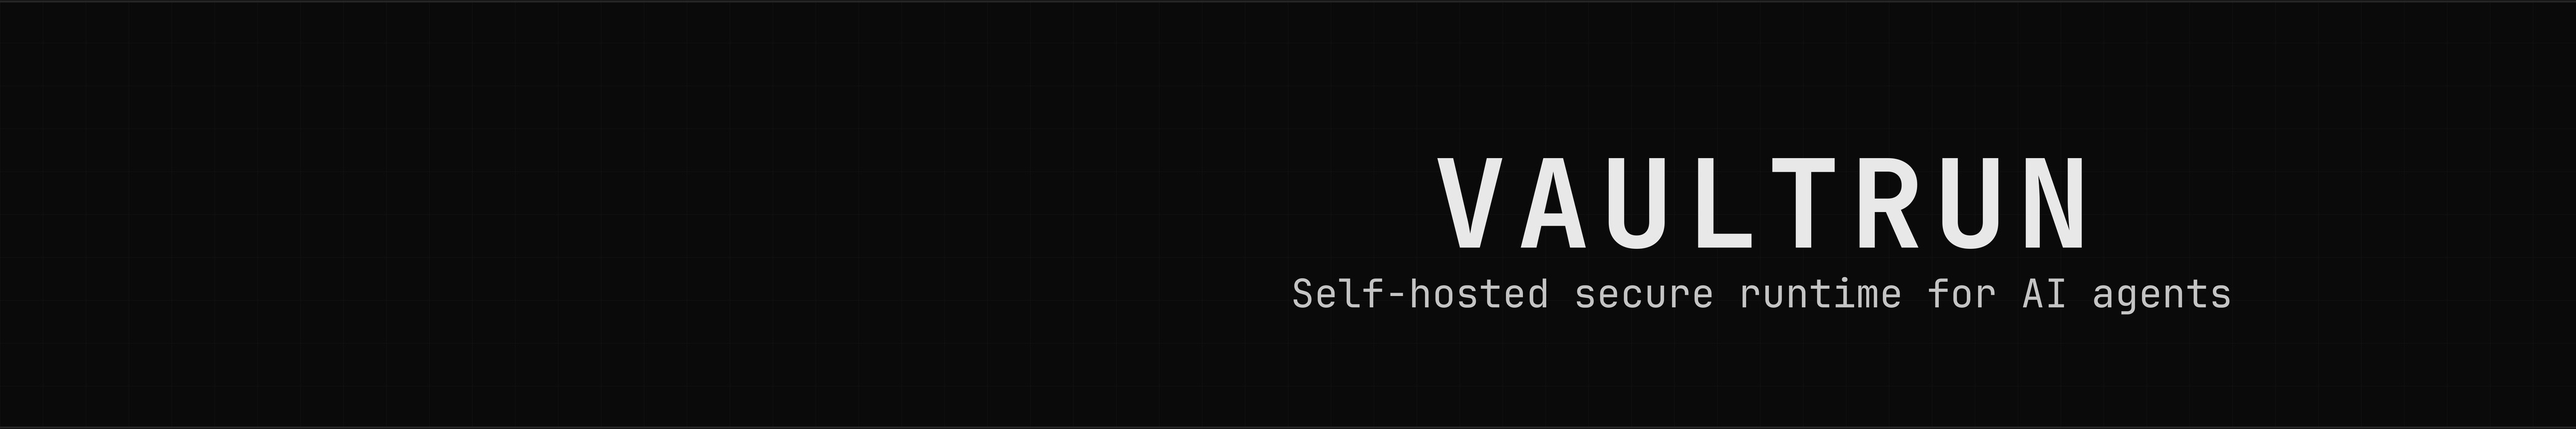
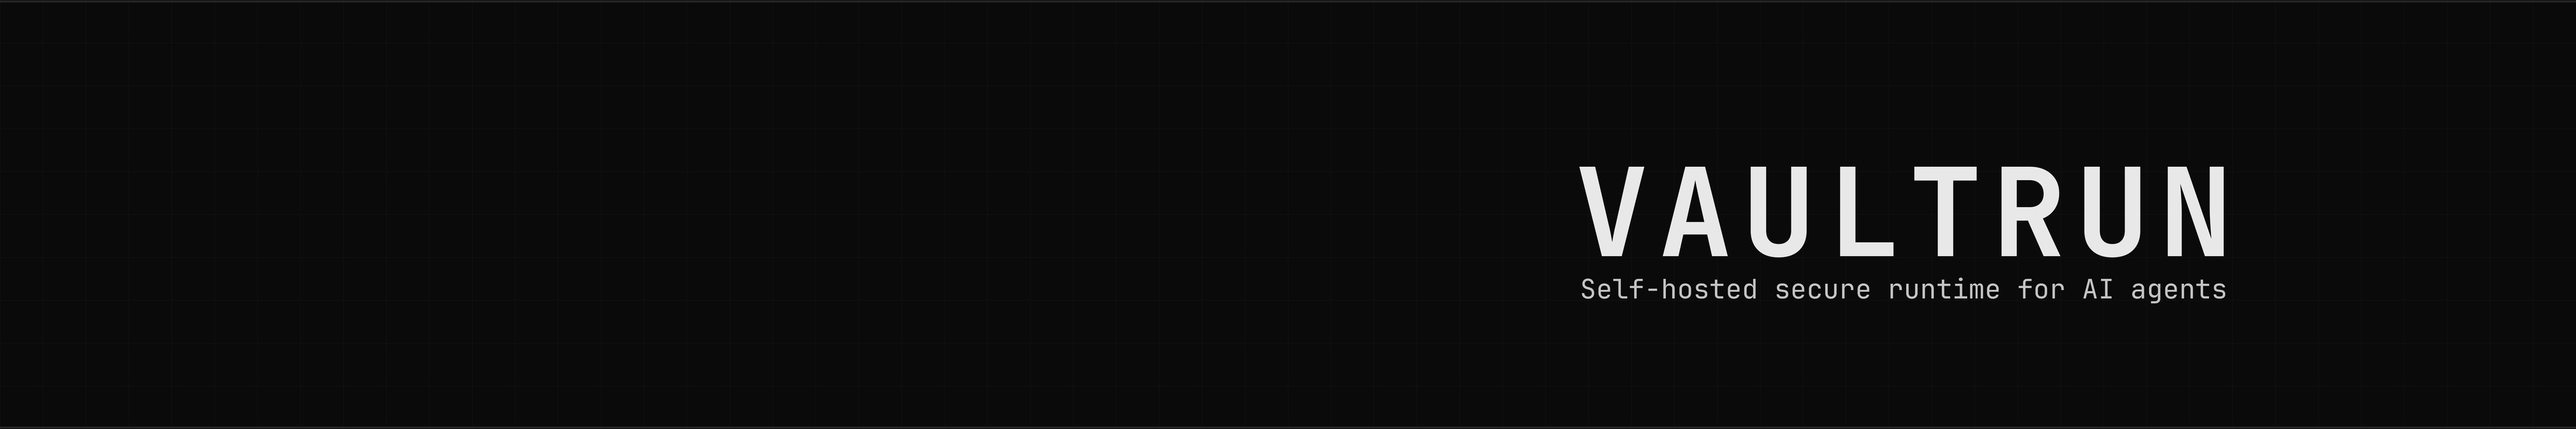
fix(brand): smaller LinkedIn cover tagline
Drop the tagline from 64px to 44px (still centered under VAULTRUN) so it
reads as a caption on the 191px Page strip instead of a second headline.

Changed region(s): [[0.5614, 0.36, 0.8733, 0.6], [0.499, 0.63, 0.8733, 0.72]]

diff --git a/scripts/generate-brand-pngs.py b/scripts/generate-brand-pngs.py
@@ -257,18 +257,20 @@ def linkedin_cover() -> Image.Image:
     draw.line([(0, h - 3 * scale), (w, h - 3 * scale)], fill=LINE, width=3 * scale)
 
     word = load_font(BOLD, 200 * scale)
-    tag = load_font(REG, 64 * scale)
+    tag = load_font(REG, 44 * scale)
     tracking = 16 * scale
     tag_line = "Self-hosted secure runtime for AI agents"
     word_w = text_width(draw, "VAULTRUN", word, tracking)
     tag_w = draw.textlength(tag_line, font=tag)
-    # Right-weighted block; tagline is the widest line. VAULTRUN centered on it.
-    tx_tag = w - 560 * scale - int(tag_w)
-    tx_word = tx_tag + (tag_w - word_w) / 2
-    block_h = 200 * scale + 36 * scale + 64 * scale
+    block_w = max(word_w, tag_w)
+    tx_block = w - 560 * scale - int(block_w)
+    tx_word = tx_block + (block_w - word_w) / 2
+    tx_tag = tx_block + (block_w - tag_w) / 2
+    gap = 28 * scale
+    block_h = 200 * scale + gap + 44 * scale
     ty = (h - block_h) // 2
     draw_spaced(draw, (tx_word, ty), "VAULTRUN", word, FG, tracking=tracking)
-    draw.text((tx_tag, ty + 200 * scale + 36 * scale), tag_line, font=tag, fill=(196, 196, 196, 255))
+    draw.text((tx_tag, ty + 200 * scale + gap), tag_line, font=tag, fill=(196, 196, 196, 255))
     return img.resize((4200, 700), Image.Resampling.LANCZOS)
 
 
